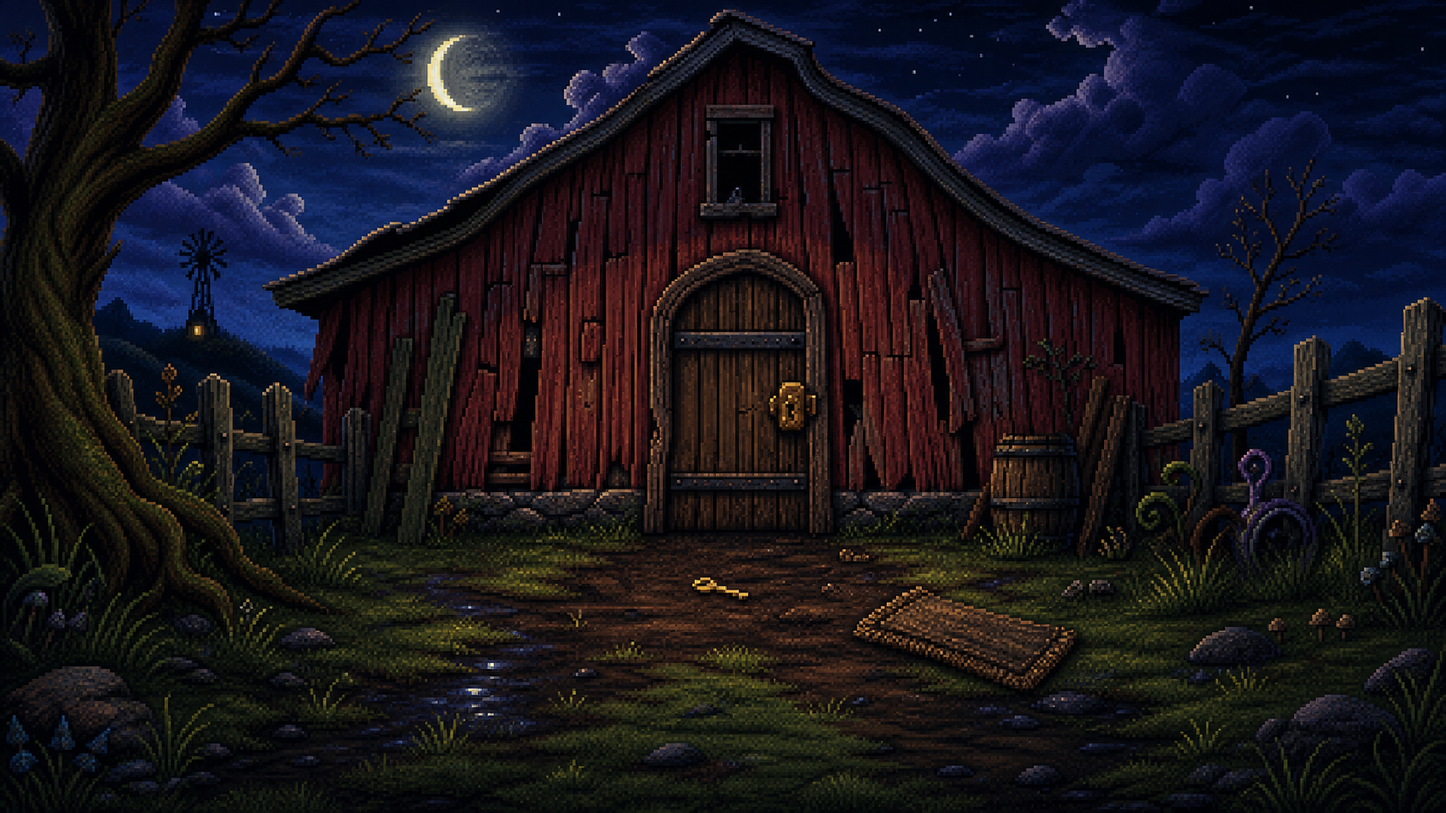
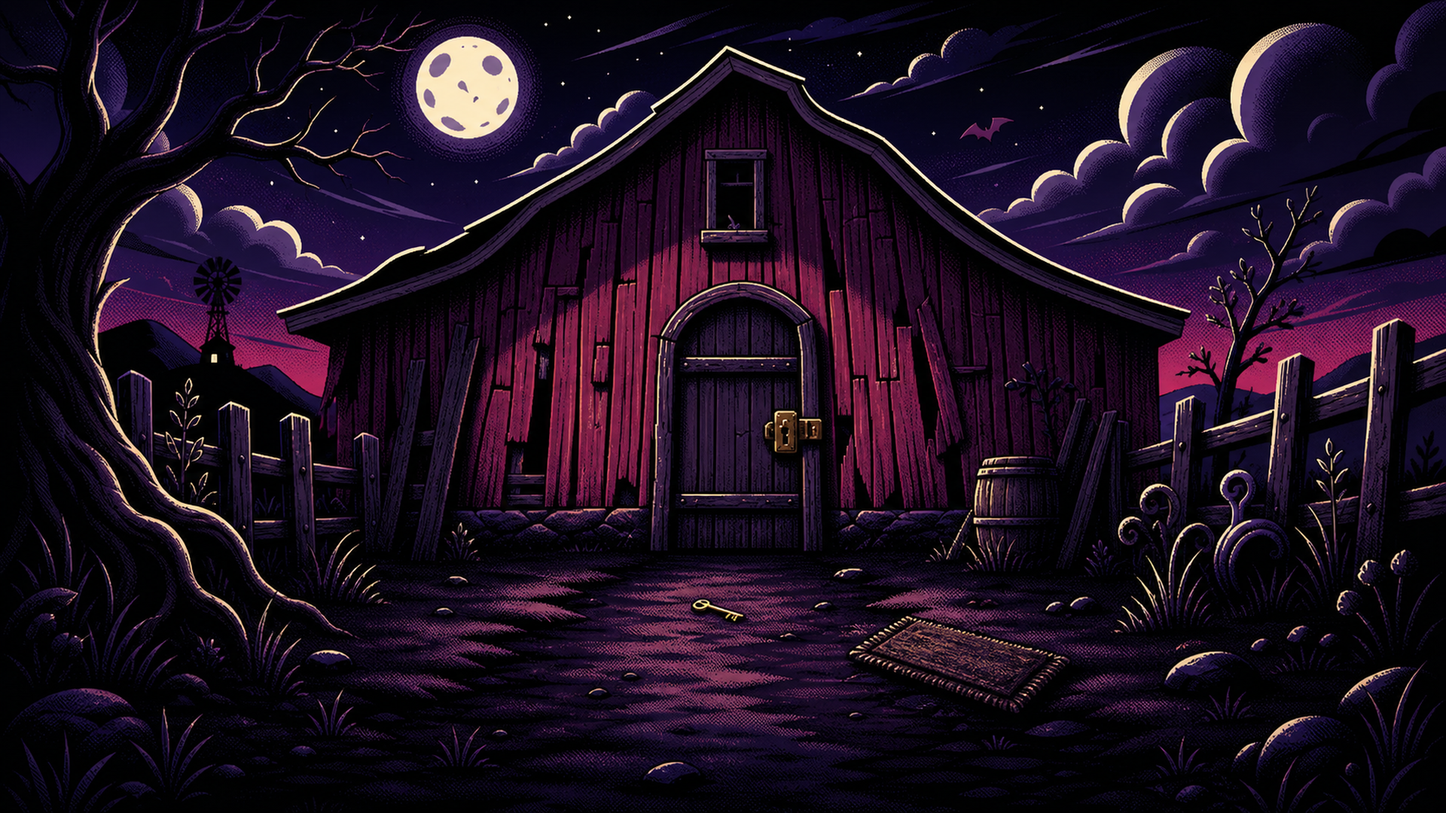
Added DOTT graphics

diff --git a/src/game.js b/src/game.js
@@ -58,19 +58,19 @@ const rooms = {
         id: "barnDoor",
         name: "Barn Door",
         verbs: ["push", "pull", "inspect", "open", "close", "use"],
-        rect: { left: 44, top: 32.5, width: 12.5, height: 31.5 }
+        rect: { left: 46.5, top: 35, width: 11, height: 27 }
       },
       {
         id: "doorMat",
         name: "Door Mat",
         verbs: ["push", "pull", "pickup", "inspect", "open"],
-        rect: { left: 42.3, top: 66.2, width: 15.6, height: 7.2 }
+        rect: { left: 42.5, top: 66.5, width: 16, height: 8 }
       },
       {
         id: "hiddenKey",
         name: "Door Key",
         verbs: ["pickup", "inspect"],
-        rect: { left: 47.4, top: 70, width: 6.5, height: 4.5 },
+        rect: { left: 47, top: 71, width: 8, height: 5 },
         visible: state => state.flags.matLifted && !state.flags.keyTaken
       }
     ]
@@ -873,7 +873,7 @@ function renderStage(room) {
 
 function rectForObject(object) {
   if (state.roomId === "3,0,0" && object.id === "doorMat" && state.flags.matLifted) {
-    return { left: 58, top: 72.5, width: 18, height: 10.5 };
+    return { left: 59, top: 72, width: 18, height: 12 };
   }
 
   return object.rect;
